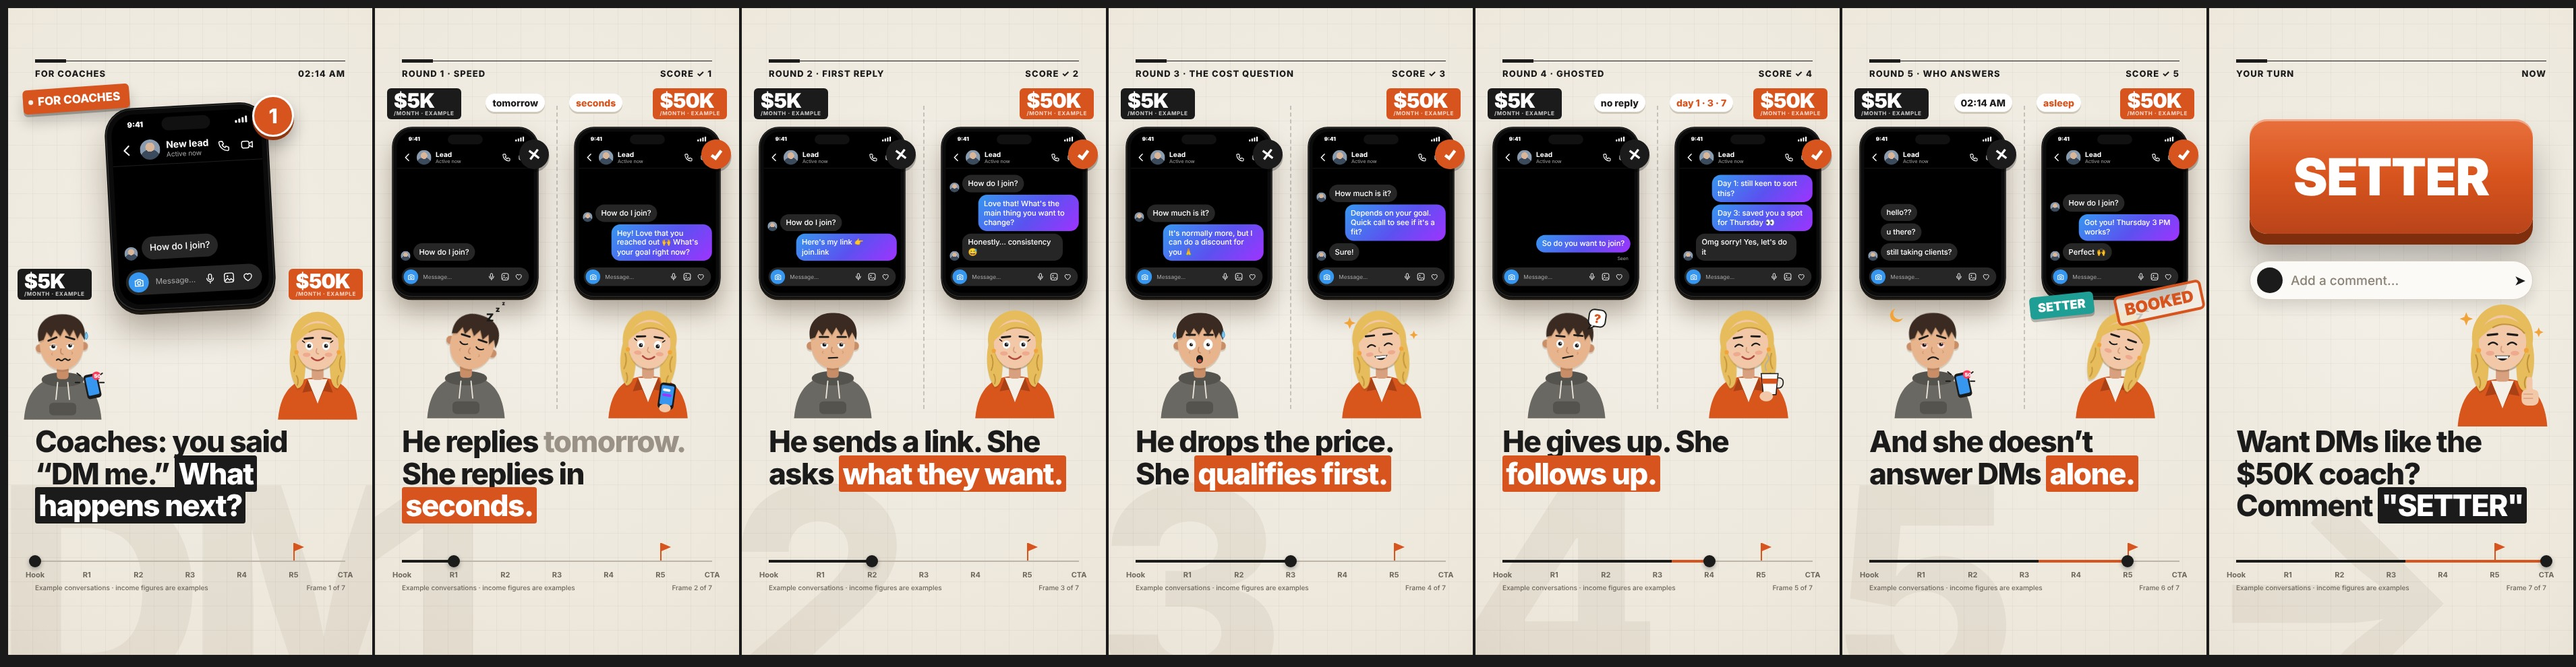
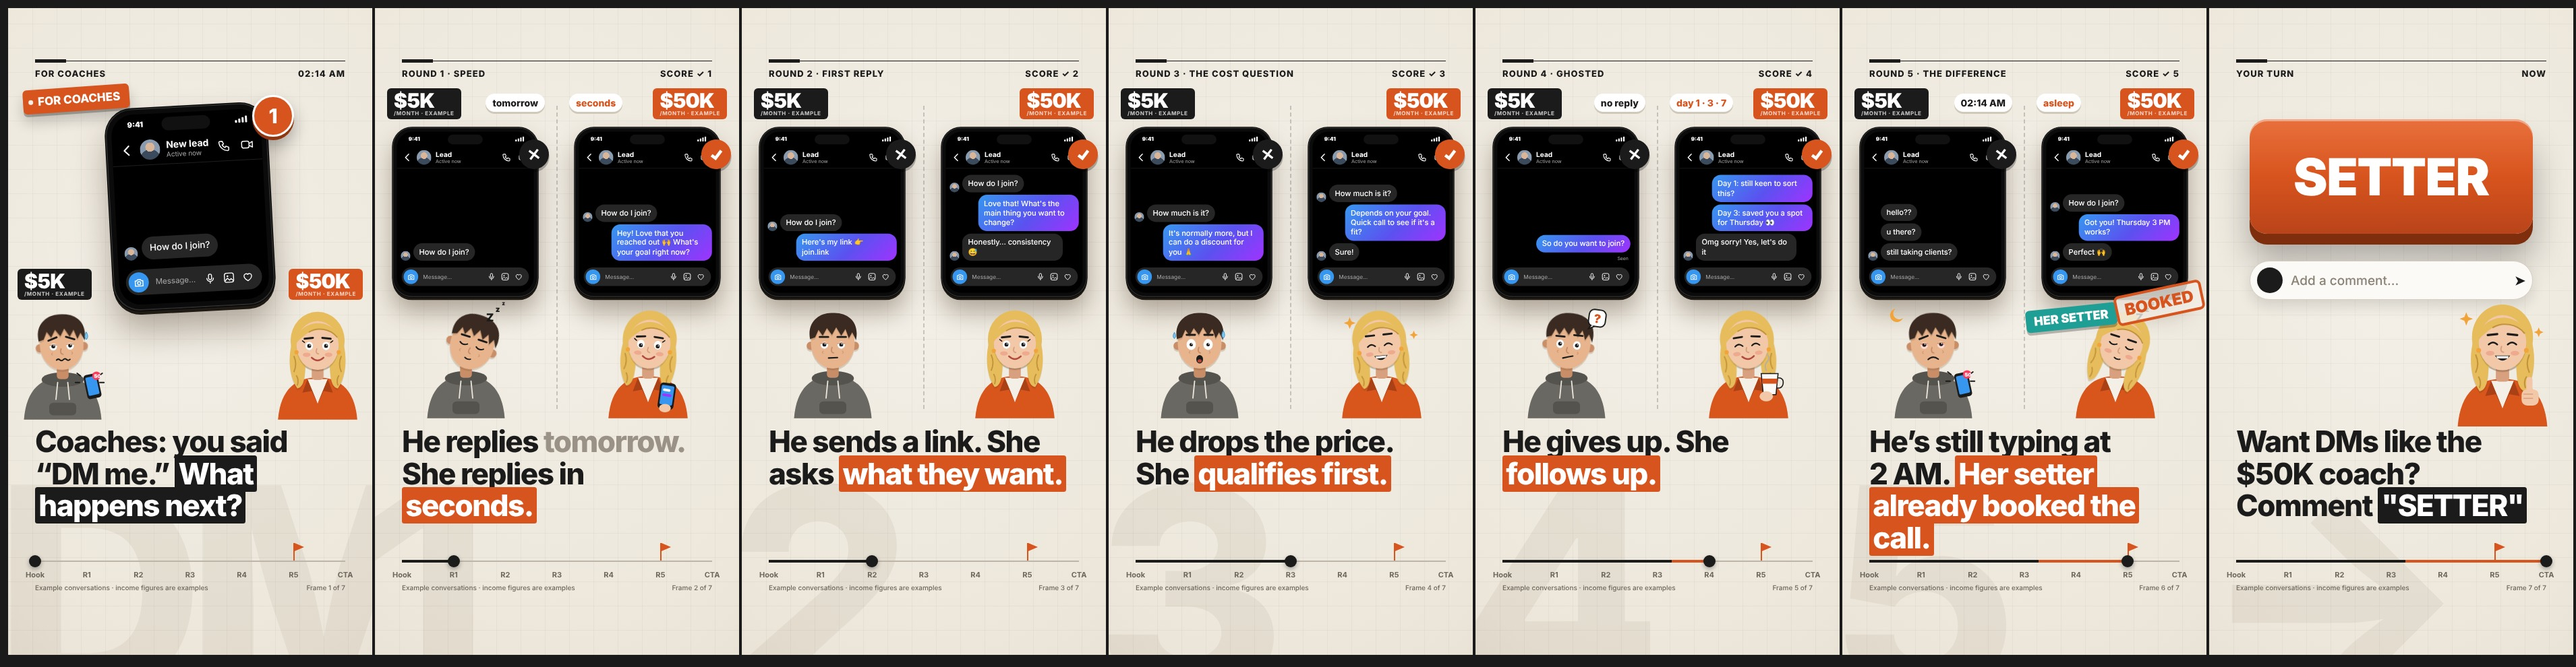
Coach compare R5: 'Her setter already booked the call.'
Claude-Session: https://claude.ai/code/session_01LBacd4Ke2z6x4vxDoXBc2Z

Changed region(s): [[0.7165, 0.6364, 0.8411, 0.8485], [0.7788, 0.4242, 0.8411, 0.5152], [0.7476, 0.0909, 0.7788, 0.1212]]

diff --git a/video-studio/storyboards/coach-compare/storyboard.html b/video-studio/storyboards/coach-compare/storyboard.html
@@ -100,7 +100,7 @@ mark{background:#1B1B1B;color:#fff;padding:0 .1em;border-radius:.1em}mark.o{back
 .who .chr{display:block}
 .mark{position:absolute;top:70px;width:44px;height:44px;border-radius:50%;background:#1B1B1B;color:#fff;font:900 24px Inter;display:grid;place-items:center;z-index:5;transform:rotate(-8deg);box-shadow:0 4px 0 rgba(0,0,0,.25)}
 .mark.l{right:12px}.mark.r{right:12px;background:#D8541E}
-.setter{position:absolute;top:300px;left:8px;z-index:6;background:#1E9E95;color:#fff;font:900 18px Inter;padding:6px 12px;border-radius:6px;transform:rotate(-6deg);box-shadow:0 4px 0 rgba(0,0,0,.25)}
+.setter{position:absolute;top:318px;left:2px;z-index:6;background:#1E9E95;color:#fff;font:900 18px Inter;padding:6px 12px;border-radius:6px;transform:rotate(-6deg);box-shadow:0 4px 0 rgba(0,0,0,.25)}
 .stamp2{position:absolute;top:290px;right:4px;z-index:6;padding:4px 10px;border:4px solid #D8541E;color:#D8541E;font:900 24px Inter;border-radius:8px;transform:rotate(-12deg);background:rgba(244,240,232,.8)}
 .cta-chr{position:absolute;right:20px;bottom:-30px}
 .tag{z-index:10}
@@ -192,7 +192,7 @@ body{width:3820px}body{grid-template-columns:repeat(7,540px)}</style></head>
 <div class="knob" style="left:337.6666666666667px"></div><span style="left:40.0px">Hook</span><span style="left:116.66666666666667px">R1</span><span style="left:193.33333333333334px">R2</span><span style="left:270.0px">R3</span><span style="left:346.6666666666667px">R4</span><span style="left:423.33333333333337px">R5</span><span style="left:500.0px">CTA</span><small class="l">Example conversations · income figures are examples</small><small class="r">Frame 5 of 7</small></div>
 </section><section class="fr">
 <div class="num">5</div>
-<header><div class="rule"></div><span>Round 5 · Who answers</span><em>Score ✓ 5</em></header>
+<header><div class="rule"></div><span>Round 5 · The difference</span><em>Score ✓ 5</em></header>
 <div class="vis"><div class="split"><div class="half l" style="left:0px"><div class="money l">$5K<small>/month · example</small></div><div class="clock l">02:14 AM</div><div class="mini" style="left:26px"><div class="ph" style="left:0px;top:0px;width:300px;height:350px;transform:rotate(0deg)"><div class="scr">
 <div class="sb"><b>9:41</b><span class="isl"></span><em><s></s><s></s><s></s><s></s></em></div>
 <div class="hd"><svg viewBox="0 0 24 24"><path d="M15 4l-8 8 8 8" fill="none" stroke="#fff" stroke-width="2.4" stroke-linecap="round" stroke-linejoin="round"/></svg><i class="pav"></i><div><b>Lead</b><small>Active now</small></div><span><svg viewBox="0 0 24 24"><path d="M5 4h4l2 5-2.5 1.5a11 11 0 005 5L15 13l5 2v4a2 2 0 01-2 2A16 16 0 013 6a2 2 0 012-2" fill="none" stroke="#fff" stroke-width="1.8" stroke-linejoin="round"/></svg><svg viewBox="0 0 24 24"><rect x="2.5" y="6" width="13" height="12" rx="3" fill="none" stroke="#fff" stroke-width="1.8"/><path d="M15.5 10.5l6-3.5v10l-6-3.5" fill="none" stroke="#fff" stroke-width="1.8" stroke-linejoin="round"/></svg></span></div>
@@ -203,8 +203,8 @@ body{width:3820px}body{grid-template-columns:repeat(7,540px)}</style></head>
 <div class="hd"><svg viewBox="0 0 24 24"><path d="M15 4l-8 8 8 8" fill="none" stroke="#fff" stroke-width="2.4" stroke-linecap="round" stroke-linejoin="round"/></svg><i class="pav"></i><div><b>Lead</b><small>Active now</small></div><span><svg viewBox="0 0 24 24"><path d="M5 4h4l2 5-2.5 1.5a11 11 0 005 5L15 13l5 2v4a2 2 0 01-2 2A16 16 0 013 6a2 2 0 012-2" fill="none" stroke="#fff" stroke-width="1.8" stroke-linejoin="round"/></svg><svg viewBox="0 0 24 24"><rect x="2.5" y="6" width="13" height="12" rx="3" fill="none" stroke="#fff" stroke-width="1.8"/><path d="M15.5 10.5l6-3.5v10l-6-3.5" fill="none" stroke="#fff" stroke-width="1.8" stroke-linejoin="round"/></svg></span></div>
 <div class="th"><div class="m in" style="--i:0"><i class="av"></i><div class="b in">How do I join?</div></div><div class="m out" style="--i:1"><div class="b out">Got you! Thursday 3 PM works?</div></div><div class="m in" style="--i:2"><i class="av"></i><div class="b in">Perfect 🙌</div></div></div>
 <div class="in-bar"><i class="cam"><svg viewBox="0 0 24 24"><path d="M4 8h3l2-2.5h6L17 8h3v11H4z" fill="none" stroke="#fff" stroke-width="2" stroke-linejoin="round"/><circle cx="12" cy="13" r="3.2" fill="none" stroke="#fff" stroke-width="2"/></svg></i><span>Message...</span><svg viewBox="0 0 24 24"><rect x="9" y="3" width="6" height="11" rx="3" fill="none" stroke="#fff" stroke-width="1.8"/><path d="M5.5 11a6.5 6.5 0 0013 0M12 17.5V21" fill="none" stroke="#fff" stroke-width="1.8" stroke-linecap="round"/></svg><svg viewBox="0 0 24 24"><rect x="3" y="3" width="18" height="18" rx="4" fill="none" stroke="#fff" stroke-width="1.8"/><circle cx="9" cy="9" r="1.8" fill="#fff"/><path d="M4 18l5-5 4 4 3-3 4 4" fill="none" stroke="#fff" stroke-width="1.8" stroke-linejoin="round"/></svg><svg viewBox="0 0 24 24"><path d="M12 20s-7.5-4.6-7.5-10A4.3 4.3 0 0112 7.4 4.3 4.3 0 0119.5 10c0 5.4-7.5 10-7.5 10z" fill="none" stroke="#fff" stroke-width="1.8" stroke-linejoin="round"/></svg></div>
-</div></div></div><div class="who"><svg class="chr" viewBox="0 0 240 300" width="150" height="188" xmlns="http://www.w3.org/2000/svg"><defs><filter id="cut" x="-10%" y="-10%" width="120%" height="130%"><feDropShadow dx="0" dy="4" stdDeviation="0" flood-color="#5A3C1E" flood-opacity=".22"/></filter></defs><g filter="url(#cut)"><path d="M26 300 C32 226 70 200 120 200 C170 200 208 226 214 300 Z" fill="#D8541E"/><path d="M96 204 L120 262 L144 204 Z" fill="#F4F0E8"/><path d="M96 204 L84 236 L106 232 L120 262 Z M144 204 L156 236 L134 232 L120 262 Z" fill="#A93F14"/></g><rect x="106" y="168" width="28" height="38" rx="8" fill="#D9A07F"/><g transform="rotate(18 120 170)"><g filter="url(#cut)"><ellipse cx="120" cy="112" rx="64" ry="68" fill="#E6BC5C"/><path d="M62 108 C48 150 52 196 72 226 C92 222 90 186 92 150 Z" fill="#E6BC5C"/><path d="M178 108 C192 150 188 196 168 226 C148 222 150 186 148 150 Z" fill="#E6BC5C"/><path d="M64 150 q8 18 0 36 M176 150 q-8 18 0 36 M70 196 q6 10 2 22 M170 196 q-6 10 -2 22" stroke="#C2933A" stroke-width="3" fill="none" stroke-linecap="round"/></g><g filter="url(#cut)"><ellipse cx="120" cy="124" rx="50" ry="58" fill="#F2C8A8"/></g><circle cx="70" cy="140" r="5" fill="#F2A33A"/><circle cx="170" cy="140" r="5" fill="#F2A33A"/><path d="M70 118 C70 62 160 52 172 112 C160 86 128 76 100 92 C88 100 78 108 70 118 Z" fill="#E6BC5C"/><path d="M100 92 C120 80 150 84 166 104" stroke="#C2933A" stroke-width="3" fill="none" stroke-linecap="round"/><ellipse cx="94" cy="146" rx="9" ry="5" fill="#E8826E" opacity=".45"/><ellipse cx="146" cy="146" rx="9" ry="5" fill="#E8826E" opacity=".45"/><path d="M118 132 q-4 11 4 12" stroke="#D9A07F" stroke-width="3" fill="none" stroke-linecap="round"/><path d="M91 125 q9 7 18 0" stroke="#1B1B1B" stroke-width="3.2" fill="none" stroke-linecap="round"/><path d="M131 125 q9 7 18 0" stroke="#1B1B1B" stroke-width="3.2" fill="none" stroke-linecap="round"/><path d="M89 107 L109 107" stroke="#1B1B1B" stroke-width="4.5" stroke-linecap="round"/><path d="M131 107 L151 107" stroke="#1B1B1B" stroke-width="4.5" stroke-linecap="round"/><path d="M113 157 Q120 161 127 157" stroke="#1B1B1B" stroke-width="3" fill="none" stroke-linecap="round"/></g><text x="168" y="70" font-family="Inter" font-weight="900" font-size="26" fill="#1B1B1B">Z</text><text x="190" y="48" font-family="Inter" font-weight="900" font-size="18" fill="#1B1B1B">z</text><text x="205" y="32" font-family="Inter" font-weight="900" font-size="13" fill="#1B1B1B">z</text></svg></div><div class="mark r">✓</div><div class="setter">SETTER</div><div class="stamp2">BOOKED</div></div><div class="divider"></div></div></div>
-<div class="cap">And she doesn’t answer DMs <span class="hlo">alone.</span></div>
+</div></div></div><div class="who"><svg class="chr" viewBox="0 0 240 300" width="150" height="188" xmlns="http://www.w3.org/2000/svg"><defs><filter id="cut" x="-10%" y="-10%" width="120%" height="130%"><feDropShadow dx="0" dy="4" stdDeviation="0" flood-color="#5A3C1E" flood-opacity=".22"/></filter></defs><g filter="url(#cut)"><path d="M26 300 C32 226 70 200 120 200 C170 200 208 226 214 300 Z" fill="#D8541E"/><path d="M96 204 L120 262 L144 204 Z" fill="#F4F0E8"/><path d="M96 204 L84 236 L106 232 L120 262 Z M144 204 L156 236 L134 232 L120 262 Z" fill="#A93F14"/></g><rect x="106" y="168" width="28" height="38" rx="8" fill="#D9A07F"/><g transform="rotate(18 120 170)"><g filter="url(#cut)"><ellipse cx="120" cy="112" rx="64" ry="68" fill="#E6BC5C"/><path d="M62 108 C48 150 52 196 72 226 C92 222 90 186 92 150 Z" fill="#E6BC5C"/><path d="M178 108 C192 150 188 196 168 226 C148 222 150 186 148 150 Z" fill="#E6BC5C"/><path d="M64 150 q8 18 0 36 M176 150 q-8 18 0 36 M70 196 q6 10 2 22 M170 196 q-6 10 -2 22" stroke="#C2933A" stroke-width="3" fill="none" stroke-linecap="round"/></g><g filter="url(#cut)"><ellipse cx="120" cy="124" rx="50" ry="58" fill="#F2C8A8"/></g><circle cx="70" cy="140" r="5" fill="#F2A33A"/><circle cx="170" cy="140" r="5" fill="#F2A33A"/><path d="M70 118 C70 62 160 52 172 112 C160 86 128 76 100 92 C88 100 78 108 70 118 Z" fill="#E6BC5C"/><path d="M100 92 C120 80 150 84 166 104" stroke="#C2933A" stroke-width="3" fill="none" stroke-linecap="round"/><ellipse cx="94" cy="146" rx="9" ry="5" fill="#E8826E" opacity=".45"/><ellipse cx="146" cy="146" rx="9" ry="5" fill="#E8826E" opacity=".45"/><path d="M118 132 q-4 11 4 12" stroke="#D9A07F" stroke-width="3" fill="none" stroke-linecap="round"/><path d="M91 125 q9 7 18 0" stroke="#1B1B1B" stroke-width="3.2" fill="none" stroke-linecap="round"/><path d="M131 125 q9 7 18 0" stroke="#1B1B1B" stroke-width="3.2" fill="none" stroke-linecap="round"/><path d="M89 107 L109 107" stroke="#1B1B1B" stroke-width="4.5" stroke-linecap="round"/><path d="M131 107 L151 107" stroke="#1B1B1B" stroke-width="4.5" stroke-linecap="round"/><path d="M113 157 Q120 161 127 157" stroke="#1B1B1B" stroke-width="3" fill="none" stroke-linecap="round"/></g><text x="168" y="70" font-family="Inter" font-weight="900" font-size="26" fill="#1B1B1B">Z</text><text x="190" y="48" font-family="Inter" font-weight="900" font-size="18" fill="#1B1B1B">z</text><text x="205" y="32" font-family="Inter" font-weight="900" font-size="13" fill="#1B1B1B">z</text></svg></div><div class="mark r">✓</div><div class="setter">HER SETTER</div><div class="stamp2">BOOKED</div></div><div class="divider"></div></div></div>
+<div class="cap">He’s still typing at 2&nbsp;AM. <span class="hlo">Her setter already booked the call.</span></div>
 <div class="scrub"><div class="line"></div><div class="prog" style="width:383.33333333333337px"></div><div class="fl" style="left:423.33333333333337px"></div>
 <div class="knob" style="left:414.33333333333337px"></div><span style="left:40.0px">Hook</span><span style="left:116.66666666666667px">R1</span><span style="left:193.33333333333334px">R2</span><span style="left:270.0px">R3</span><span style="left:346.6666666666667px">R4</span><span style="left:423.33333333333337px">R5</span><span style="left:500.0px">CTA</span><small class="l">Example conversations · income figures are examples</small><small class="r">Frame 6 of 7</small></div>
 </section><section class="fr">

diff --git a/video-studio/storyboards/coach-compare/build.py b/video-studio/storyboards/coach-compare/build.py
@@ -67,12 +67,12 @@ frames = [
                    half("r", [("out", "Day 1: still keen to sort this?"), ("out", "Day 3: saved you a spot for Thursday 👀"), ("in", "Omg sorry! Yes, let's do it")], "coffee", "ok", "day 1 · 3 · 7")),
          cap='He gives up. She <span class="hlo">follows up.</span>',
          vo="He gives up. She follows up."),
-    dict(label="Round 5 · Who answers", right="Score ✓ 5", num="5",
+    dict(label="Round 5 · The difference", right="Score ✓ 5", num="5",
          vis=split(half("l", [("in", "hello??"), ("in", "u there?"), ("in", "still taking clients?")], "2am", "x", "02:14 AM"),
                    half("r", [("in", "How do I join?"), ("out", "Got you! Thursday 3 PM works?"), ("in", "Perfect 🙌")], "asleep", "ok", "asleep",
-                        extra=f'<div class="setter">SETTER</div><div class="stamp2">BOOKED</div>')),
-         cap='And she doesn’t answer DMs <span class="hlo">alone.</span>',
-         vo="And she doesn't answer DMs alone."),
+                        extra=f'<div class="setter">HER SETTER</div><div class="stamp2">BOOKED</div>')),
+         cap='He’s still typing at 2&nbsp;AM. <span class="hlo">Her setter already booked the call.</span>',
+         vo="He's still typing at 2 AM. Her setter already booked the call."),
     dict(label="Your turn", right="Now", num="→",
          vis='<div class="key">SETTER</div><div class="cbox"><i></i>Add a comment…<b>&#10148;</b></div>'
              + f'<div class="cta-chr">{C.char_svg("high", "thumbs", 170)}</div>',
@@ -112,7 +112,7 @@ EXTRA_CSS = f"""
 .who .chr{{display:block}}
 .mark{{position:absolute;top:70px;width:44px;height:44px;border-radius:50%;background:{K};color:#fff;font:900 24px Inter;display:grid;place-items:center;z-index:5;transform:rotate(-8deg);box-shadow:0 4px 0 rgba(0,0,0,.25)}}
 .mark.l{{right:12px}}.mark.r{{right:12px;background:{O}}}
-.setter{{position:absolute;top:300px;left:8px;z-index:6;background:{T_};color:#fff;font:900 18px Inter;padding:6px 12px;border-radius:6px;transform:rotate(-6deg);box-shadow:0 4px 0 rgba(0,0,0,.25)}}
+.setter{{position:absolute;top:318px;left:2px;z-index:6;background:{T_};color:#fff;font:900 18px Inter;padding:6px 12px;border-radius:6px;transform:rotate(-6deg);box-shadow:0 4px 0 rgba(0,0,0,.25)}}
 .stamp2{{position:absolute;top:290px;right:4px;z-index:6;padding:4px 10px;border:4px solid {O};color:{O};font:900 24px Inter;border-radius:8px;transform:rotate(-12deg);background:rgba(244,240,232,.8)}}
 .cta-chr{{position:absolute;right:20px;bottom:-30px}}
 .tag{{z-index:10}}
